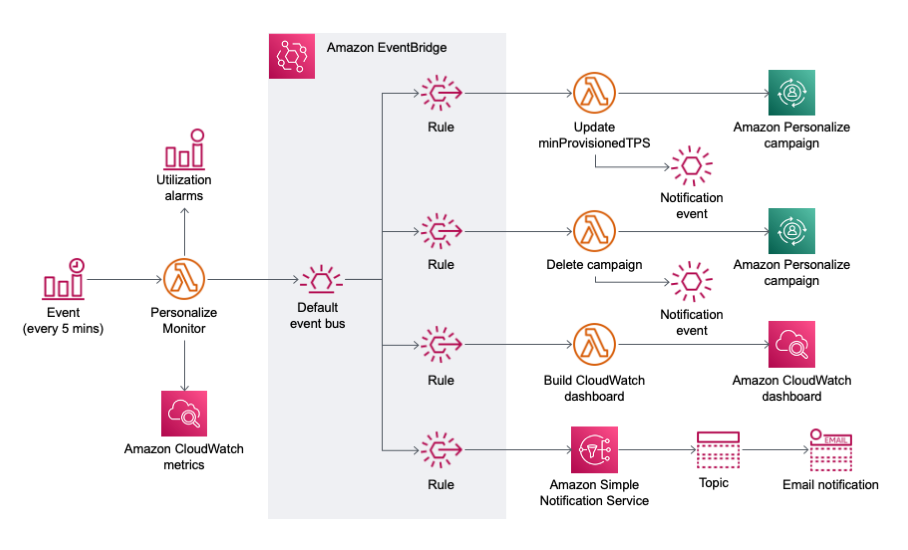
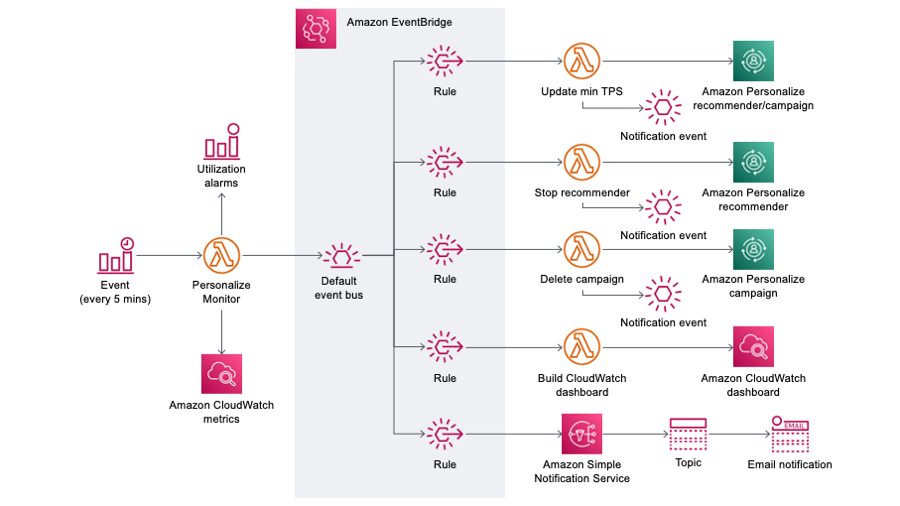
Improved multi-region support for alarms

Changed region(s): [[0.0311, 0.0, 0.9644, 0.9783], [0.1244, 0.6818, 0.3111, 0.8597], [0.1556, 0.2372, 0.28, 0.3854]]

diff --git a/src/personalize_monitor_function/personalize_monitor.py b/src/personalize_monitor_function/personalize_monitor.py
@@ -8,6 +8,7 @@ utilization metrics and recommender RRPS in CloudWatch. The metrics are used for
 alarms and on the CloudWatch dashboard created by this application.
 """
 
+import boto3
 import json
 import os
 import datetime
@@ -21,6 +22,9 @@ from aws_lambda_powertools import Logger
 from common import (
     PROJECT_NAME,
     ALARM_NAME_PREFIX,
+    SNS_TOPIC_NAME,
+    NOTIFICATIONS_RULE,
+    NOTIFICATIONS_RULE_TARGET_ID,
     extract_region,
     get_client,
     get_configured_active_campaigns,
@@ -38,6 +42,8 @@ ALARM_NAME_PREFIX_LOW_CAMPAIGN_UTILIZATION = ALARM_NAME_PREFIX + 'LowCampaignUti
 ALARM_NAME_PREFIX_LOW_RECOMMENDER_UTILIZATION = ALARM_NAME_PREFIX + 'LowRecommenderUtilization-'
 ALARM_NAME_PREFIX_IDLE_CAMPAIGN = ALARM_NAME_PREFIX + 'IdleCampaign-'
 ALARM_NAME_PREFIX_IDLE_RECOMMENDER = ALARM_NAME_PREFIX + 'IdleRecommender-'
+
+_topic_arn_by_region = {}
 
 def get_recipe_arn(resource: Dict):
     recipe_arn = resource.get('recipeArn')
@@ -177,6 +183,89 @@ def append_metric(metric_datas_by_region, region, metric):
 
     metric_datas.append(metric)
 
+def notifications_rule_exists(events_client) -> bool:
+    try:
+        events_client.describe_rule(Name = NOTIFICATIONS_RULE)
+        return True
+    except events_client.exceptions.ResourceNotFoundException:
+        return False
+
+def get_topic_arn(resource_region: str) -> str:
+    # If the ARN has already been created/fetched, return it from cache.
+    if resource_region in _topic_arn_by_region:
+        logger.debug('Returning cached SNS topic ARN for region %s', resource_region)
+        return _topic_arn_by_region[resource_region]
+
+    sns = get_client(service_name = 'sns', region_name = resource_region)
+
+    logger.info('Creating/fetching SNS topic ARN for topic %s in region %s', SNS_TOPIC_NAME, resource_region)
+    response = sns.create_topic(Name = SNS_TOPIC_NAME)
+    topic_arn = response['TopicArn']
+
+    logger.info('Setting topic policy for SNS topic %s', topic_arn)
+    sns.set_topic_attributes(
+        TopicArn = topic_arn,
+        AttributeName = 'Policy',
+        AttributeValue = '''{
+            "Version": "2008-10-17",
+            "Id": "PublishPolicy",
+            "Statement": [{
+                "Effect": "Allow",
+                "Principal": {
+                "Service": [
+                    "cloudwatch.amazonaws.com",
+                    "events.amazonaws.com"
+                ]
+                },
+                "Action": [ "sns:Publish" ],
+                "Resource": "%s"
+            }]
+        }''' % (topic_arn)
+    )
+
+    # Cache it so we avoid repeat calls while function is resident.
+    _topic_arn_by_region[resource_region] = topic_arn
+
+    events = get_client(service_name = 'events', region_name = resource_region)
+
+    if not notifications_rule_exists(events):
+        logger.info('EventBridge notifications rule %s does not exist; creating', NOTIFICATIONS_RULE)
+
+        response = events.put_rule(
+            Name = NOTIFICATIONS_RULE,
+            EventPattern = '''{
+                "detail-type": ["PersonalizeCampaignMinProvisionedTPSUpdated", "PersonalizeCampaignDeleted", "PersonalizeRecommenderMinRecommendationRPSUpdated", "PersonalizeRecommenderStopped"],
+                "source": ["personalize.monitor"]
+            }''',
+            State = 'ENABLED',
+            Description = 'Routes Personalize Monitor notifications to notification SNS topic'
+        )
+
+        logger.info('Setting target on notification rule')
+        events.put_targets(
+            Rule = NOTIFICATIONS_RULE,
+            Targets = [{
+                'Id': NOTIFICATIONS_RULE_TARGET_ID,
+                'Arn': topic_arn
+            }]
+        )
+    else:
+        logger.info('EventBridge notification rule %s already exists', NOTIFICATIONS_RULE)
+
+    notification_endpoint = os.environ.get('NotificationEndpoint')
+
+    if notification_endpoint:
+        logger.info('Subscribing endpoint %s to SNS topic %s', notification_endpoint, topic_arn)
+        sns.subscribe(
+            TopicArn = topic_arn,
+            Protocol = 'email',
+            Endpoint = notification_endpoint
+        )
+    else:
+        logger.warn('No notification endpoint specified at deployment so not adding subscriber')
+
+    return topic_arn
+
 def create_utilization_alarm(resource_region, resource, utilization_threshold_lower_bound):
     cw = get_client(service_name = 'cloudwatch', region_name = resource_region)
 
@@ -228,7 +317,7 @@ def create_utilization_alarm(resource_region, resource, utilization_threshold_lo
     if not low_utilization_alarm_exists:
         logger.info('Creating lower bound utilization alarm for %s', resource[arn_key])
 
-        topic_arn = os.environ['NotificationsTopic']
+        topic_arn = get_topic_arn(resource_region)
 
         cw.put_metric_alarm(
             AlarmName = alarm_name,
@@ -271,7 +360,7 @@ def create_utilization_alarm(resource_region, resource, utilization_threshold_lo
 
 def create_idle_resource_alarm(resource_region, resource, idle_threshold_hours):
     cw = get_client(service_name = 'cloudwatch', region_name = resource_region)
-    topic_arn = os.environ['NotificationsTopic']
+    topic_arn = get_topic_arn(resource_region)
 
     metric_name = get_inference_metric_name(resource)
 

diff --git a/src/cleanup_resources_function/cleanup_resources.py b/src/cleanup_resources_function/cleanup_resources.py
@@ -6,12 +6,17 @@
 This function is called as a CloudFormation custom resource.
 """
 
+import boto3
+
 from crhelper import CfnResource
 from aws_lambda_powertools import Logger
 
 from common import (
     PROJECT_NAME,
     ALARM_NAME_PREFIX,
+    SNS_TOPIC_NAME,
+    NOTIFICATIONS_RULE,
+    NOTIFICATIONS_RULE_TARGET_ID,
     extract_region,
     get_client,
     determine_campaign_arns,
@@ -21,8 +26,11 @@ from common import (
 logger = Logger()
 helper = CfnResource()
 
+sts = boto3.client('sts')
+account_id = sts.get_caller_identity()['Account']
+
 @helper.delete
-def delete_resource(event, _):
+def delete_resources(event, _):
     campaign_arns = determine_campaign_arns(event.get('ResourceProperties'))
     recommender_arns = determine_recommender_arns(event.get('ResourceProperties'))
 
@@ -61,6 +69,28 @@ def delete_resource(event, _):
             logger.info('Deleting CloudWatch alarms in %s for campaigns %s and recommenders %s: %s', region, campaign_arns, recommender_arns, alarm_names_to_delete)
             cw.delete_alarms(AlarmNames=list(alarm_names_to_delete))
             alarms_deleted += len(alarm_names_to_delete)
+
+        events = get_client(service_name = 'events', region_name = region)
+        try:
+            logger.info('Removing targets from EventBridge notification rule %s for region %s', NOTIFICATIONS_RULE, region)
+            events.remove_targets(
+                Rule = NOTIFICATIONS_RULE,
+                Ids = [ NOTIFICATIONS_RULE_TARGET_ID ]
+            )
+        except events.exceptions.ResourceNotFoundException:
+            logger.warn('EventBridge notification rule targets not found')
+
+        try:
+            logger.info('Deleting EventBridge notification rule %s for region %s', NOTIFICATIONS_RULE, region)
+            events.delete_rule(Name = NOTIFICATIONS_RULE)
+        except events.exceptions.ResourceNotFoundException:
+            logger.warn('EventBridge notification rule %s does not exist', NOTIFICATIONS_RULE)
+
+        sns = get_client(service_name = 'sns', region_name = region)
+        topic_arn = f'arn:aws:sns:{region}:{account_id}:{SNS_TOPIC_NAME}'
+        logger.info('Deleting SNS topic %s', topic_arn)
+        # This API is idempotent so will not fail if topic does not exist
+        sns.delete_topic(TopicArn = topic_arn)
 
     logger.info('Deleted %d alarms', alarms_deleted)
 

diff --git a/src/layer/common.py b/src/layer/common.py
@@ -19,13 +19,15 @@ from expiring_dict import ExpiringDict
 logger = Logger(child=True)
 
 _clients_by_region = {}
-# Since the DescribeCampaign API easily throttles and we just need
-# the minProvisionedTPS from the campaign, use a cache to help smooth
-# out periods where we get throttled.
-_resource_cache = ExpiringDict(22 * 60)
+# Since the DescribeCampaign and DescribeRecommender APIs easily throttle,
+# use a cache to help smooth out periods where we get throttled.
+_resource_cache = ExpiringDict(max_age_seconds = 22 * 60)
 
 PROJECT_NAME = 'PersonalizeMonitor'
 ALARM_NAME_PREFIX = PROJECT_NAME + '-'
+SNS_TOPIC_NAME = 'PersonalizeMonitorNotifications'
+NOTIFICATIONS_RULE = 'PersonalizeMonitor-NotificationsRule'
+NOTIFICATIONS_RULE_TARGET_ID = 'PersonalizeMonitorNotificationsId'
 
 def put_event(detail_type, detail, resources = []):
     event_bridge = get_client('events')

diff --git a/src/personalize_monitor_function/README.md b/src/personalize_monitor_function/README.md
@@ -30,13 +30,13 @@ You can optionally have CloudWatch alarms dynamically created for monitored reco
 
 ### Low Recommender/Campaign Utilization Alarm
 
-If you set the `AutoCreateUtilizationAlarms` CloudFormation template parameter to `Yes` when you installed this application, this function will automatically create a CloudWatch alarm for every recommender and campaign that it monitors. The alarm will trigger when the `recommenderUtilization` or `campaignUtilization` custom metric described above drops below the `UtilizationThresholdAlarmLowerBound` installation parameter for 9 out of 12 evaluation periods. Since the intervals are 5 minutes, that means that 9 of the 12 five minute evaluations over a 60 minute span must be below the threshold to enter an alarm status. The same rule applies to transition from alarm to OK status. The alarm will be created in the region where the recommender/campaign was created. An [SNS](https://aws.amazon.com/sns/) topic created by this application will be used as the alarm and ok actions and the `NotificationEndpoint` (email address) deployment parameter will be setup as a subscriber to the topic. **Be sure to confirm the subscription sent when this application is deployed by clicking on the one-time confirmation email sent by SNS.**
+If you set the `AutoCreateUtilizationAlarms` CloudFormation template parameter to `Yes` when you installed this application, this function will automatically create a CloudWatch alarm for every recommender and campaign that it monitors. The alarm will trigger when the `recommenderUtilization` or `campaignUtilization` custom metric described above drops below the `UtilizationThresholdAlarmLowerBound` installation parameter for 9 out of 12 evaluation periods. Since the intervals are 5 minutes, that means that 9 of the 12 five minute evaluations over a 60 minute span must be below the threshold to enter an alarm status. The same rule applies to transition from alarm to OK status. The alarm will be created in the region where the recommender/campaign was created. An [SNS](https://aws.amazon.com/sns/) topic created by this application will be used as the alarm and ok actions and the `NotificationEndpoint` (email address) deployment parameter will be setup as a subscriber to the topic. **Be sure to confirm the subscription sent when this application creates SNS topics and subscribes the email address you provided. You will receive a confirmation email for a topic created in each region where resources are monitored.**
 
 The alarm will have its actions disabled when the `minRecommendationRequestsPerSecond` or `minProvisionedTPS` is 1 and enabled with `minRecommendationRequestsPerSecond` or `minProvisionedTPS` is > 1 so that notifications are only sent when utilization can be impacted by adjusting `minRecommendationRequestsPerSecond`/`minProvisionedTPS`.
 
 ### Idle Recommender/Campaign Alarm
 
-If you set the `AutoCreateIdleAlarms` CloudFormation template parameter to `Yes` when you installed this application, this function will automatically create a CloudWatch alarm for every monitored recommender/campaign that is idle for at least `IdleThresholdHours` hours. The actions for the alarm will be enabled only after the recommender/campaign has existed for `IdleThresholdHours` as well. The `GetRecommendations` or `GetPersonalizedRanking` (depending on the resource's recipe) will be used to assess the resource's idle state. The alarm will be created in the region where the recommender/campaign was created. An [SNS](https://aws.amazon.com/sns/) topic created by this application will be used as the alarm and ok actions and the `NotificationEndpoint` (email address) deployment parameter will be setup as a subscriber to the topic. **Be sure to confirm the subscription sent when this application is deployed by clicking on the one-time confirmation email sent by SNS.**
+If you set the `AutoCreateIdleAlarms` CloudFormation template parameter to `Yes` when you installed this application, this function will automatically create a CloudWatch alarm for every monitored recommender/campaign that is idle for at least `IdleThresholdHours` hours. The actions for the alarm will be enabled only after the recommender/campaign has existed for `IdleThresholdHours` as well. The `GetRecommendations` or `GetPersonalizedRanking` (depending on the resource's recipe) will be used to assess the resource's idle state. The alarm will be created in the region where the recommender/campaign was created. An [SNS](https://aws.amazon.com/sns/) topic created by this application will be used as the alarm and ok actions and the `NotificationEndpoint` (email address) deployment parameter will be setup as a subscriber to the topic. **Be sure to confirm the subscription sent when this application creates SNS topics and subscribes the email address you provided. You will receive a confirmation email for a topic created in each region where resources are monitored.**
 
 ## Automatically adjusting minRecommendationRequestsPerSecond (recommenders) and minProvisionedTPS (campaigns) (optional)
 

diff --git a/README.md b/README.md
@@ -56,7 +56,7 @@ For more details on the CloudWatch dashboard created and maintained by this appl
 
 ### <a name='CloudWatchalarms'></a>CloudWatch alarms
 
-At deployment time, you can optionally have this application automatically create [CloudWatch alarms](https://docs.aws.amazon.com/AmazonCloudWatch/latest/monitoring/AlarmThatSendsEmail.html) that will alert you when a monitored recommender's or campaign's utilization drops below a threshold you define for nine out of twelve evaluation periods. Since the intervals are 5 minutes, that means that nine of the 5 minute evaluations over a 1 hour span must be below the threshold to enter an alarm status. The same rule applies to transition from alarm to OK status. Similarly, the idle recommender/campaign alarm will alert you when there has been no request activity for a recommender/campaign for a configurable amount of time. The alarms will be setup to alert you via email through an SNS topic. Once the alarms are setup, you can alternatively link them to any operations and messaging tools you already use (i.e. Slack, PagerDuty, etc).
+At deployment time, you can optionally have this application automatically create [CloudWatch alarms](https://docs.aws.amazon.com/AmazonCloudWatch/latest/monitoring/AlarmThatSendsEmail.html) that will alert you when a monitored recommender's or campaign's utilization drops below a threshold you define for nine out of twelve evaluation periods. Since the intervals are 5 minutes, that means that nine of the 5 minute evaluations over a 1 hour span must be below the threshold to enter an alarm status. The same rule applies to transition from alarm to OK status. Similarly, the idle recommender/campaign alarm will alert you when there has been no request activity for a recommender/campaign for a configurable amount of time. The alarms will be setup to alert you via email through an SNS topic in each region where resources are monitored. Once the alarms are setup, you can alternatively link them to any operations and messaging tools you already use (i.e. Slack, PagerDuty, etc).
 
 ![Personalize Monitor CloudWatch Alarms](./images/personalize-monitor-cloudwatch-alarms.png)
 
@@ -146,7 +146,7 @@ Whether you install this application from SAR or SAM, the following parameters c
 | Parameter AutoCreateIdleAlarms | Whether to automatically create a idle detection CloudWatch alarm for each monitored recommender/campaign. | `Yes` |
 | Parameter IdleThresholdHours | Number of hours that a recommender/campaign must be idle (i.e. no requests) before it is automatically stopped (recommender) or deleted (campaign). `AutoDeleteOrStopIdleResources` must be `Yes` for idle recommender stop or campaign deletion to occur. | `24` |
 | Parameter AutoDeleteOrStopIdleResources | Whether to automatically stop idle recommenders or delete idle campaigns. An idle recommender/campaign is one that has not had any requests in `IdleThresholdHours` hours. | `No` |
-| Parameter NotificationEndpoint | Email address to receive alarm and ok notifications, recommender stop/update, campaign delete/update events (optional). An [SNS](https://aws.amazon.com/sns/) topic is created and this email address will be added as a subscriber to that topic. You will receive a confirmation email for the SNS topic subscription so be sure to click the confirmation link in that email to ensure you receive notifications. | |
+| Parameter NotificationEndpoint | Email address to receive alarm and ok notifications, recommender stop/update, campaign delete/update events (optional). An [SNS](https://aws.amazon.com/sns/) topic is created in each region where resources are monitored and this email address will be added as a subscriber to the topic(s). You will receive a confirmation email for the SNS topic subscription in each region so be sure to click the confirmation link in that email to ensure you receive notifications. | |
 | Confirm changes before deploy | If set to yes, any CloudFormation change sets will be shown to you before execution for manual review. If set to no, the AWS SAM CLI will automatically deploy application changes. | |
 | Allow SAM CLI IAM role creation | Since this application creates IAM roles to allow the Lambda functions to access AWS services, this setting must be `Yes`. | |
 | Save arguments to samconfig.toml | If set to yes, your choices will be saved to a configuration file inside the application, so that in the future you can just re-run `sam deploy` without parameters to deploy changes to your application. | |

diff --git a/README-SAR.md b/README-SAR.md
@@ -29,7 +29,7 @@ For more details on the CloudWatch dashboard created and maintained by this appl
 
 ### CloudWatch Alarms
 
-At deployment time, you can optionally have this application automatically create [CloudWatch alarms](https://docs.aws.amazon.com/AmazonCloudWatch/latest/monitoring/AlarmThatSendsEmail.html) that will alert you when a monitored recommender's or campaign's utilization drops below a threshold you define for nine out of twelve evaluation periods. Since the intervals are 5 minutes, that means that nine of the 5 minute evaluations over a 1 hour span must be below the threshold to enter an alarm status. The same rule applies to transition from alarm to OK status. Similarly, the idle recommender/campaign alarm will alert you when there has been no request activity for a recommender/campaign for a configurable amount of time. The alarms will be setup to alert you via email through an SNS topic. Once the alarms are setup, you can alternatively link them to any operations and messaging tools you already use (i.e. Slack, PagerDuty, etc).
+At deployment time, you can optionally have this application automatically create [CloudWatch alarms](https://docs.aws.amazon.com/AmazonCloudWatch/latest/monitoring/AlarmThatSendsEmail.html) that will alert you when a monitored recommender's or campaign's utilization drops below a threshold you define for nine out of twelve evaluation periods. Since the intervals are 5 minutes, that means that nine of the 5 minute evaluations over a 1 hour span must be below the threshold to enter an alarm status. The same rule applies to transition from alarm to OK status. Similarly, the idle recommender/campaign alarm will alert you when there has been no request activity for a recommender/campaign for a configurable amount of time. The alarms will be setup to alert you via email through an SNS topic in each region where resources are monitored. Once the alarms are setup, you can alternatively link them to any operations and messaging tools you already use (i.e. Slack, PagerDuty, etc).
 
 ![Personalize Monitor CloudWatch Alarms](https://raw.githubusercontent.com/aws-samples/amazon-personalize-monitor/master/images/personalize-monitor-cloudwatch-alarms.png)
 
@@ -81,13 +81,13 @@ See the readme pages for each function for details on the events that they produ
 | AutoCreateIdleAlarms | Whether to automatically create a idle detection CloudWatch alarm for each monitored recommender/campaign. | `Yes` |
 | IdleThresholdHours | Number of hours that a recommender/campaign must be idle (i.e. no requests) before it is automatically stopped (recommender) or deleted (campaign). `AutoDeleteOrStopIdleResources` must be `Yes` for idle recommender stop or campaign deletion to occur. | `24` |
 | AutoDeleteOrStopIdleResources | Whether to automatically stop idle recommenders or delete idle campaigns. An idle recommender/campaign is one that has not had any requests in `IdleThresholdHours` hours. | `No` |
-| NotificationEndpoint | Email address to receive alarm and ok notifications, recommender stop/update, campaign delete/update events (optional). An [SNS](https://aws.amazon.com/sns/) topic is created and this email address will be added as a subscriber to that topic. You will receive a confirmation email for the SNS topic subscription so be sure to click the confirmation link in that email to ensure you receive notifications. | |
+| NotificationEndpoint | Email address to receive alarm and ok notifications, recommender stop/update, campaign delete/update events (optional). An [SNS](https://aws.amazon.com/sns/) topic is created in each region where resources are monitored and this email address will be added as a subscriber to the topic(s). You will receive a confirmation email for the SNS topic subscription in each region so be sure to click the confirmation link in that email to ensure you receive notifications. | |
 
 ## Uninstalling the application
 
 To remove the resources created by this application in your AWS account, be sure to uninstall the application.
 
-## <a name='FAQs'></a>FAQs
+## FAQs
 
 ***Q: Can I use this application to determine my accumulated inference charges during the month?***
 

diff --git a/src/cleanup_resources_function/README.md b/src/cleanup_resources_function/README.md
@@ -1,3 +1,3 @@
 # Amazon Personalize Monitor - Cleanup Function
 
-This Lambda function is called as a CloudFormation custom resource when the application is deleted/uninstalled so that resources created dynamically by the application, such as CloudWatch alarms, are also deleted.
+This Lambda function is called as a CloudFormation custom resource when the application is deleted/uninstalled so that resources created dynamically by the application, such as CloudWatch alarms and SNS topics, are also deleted.
